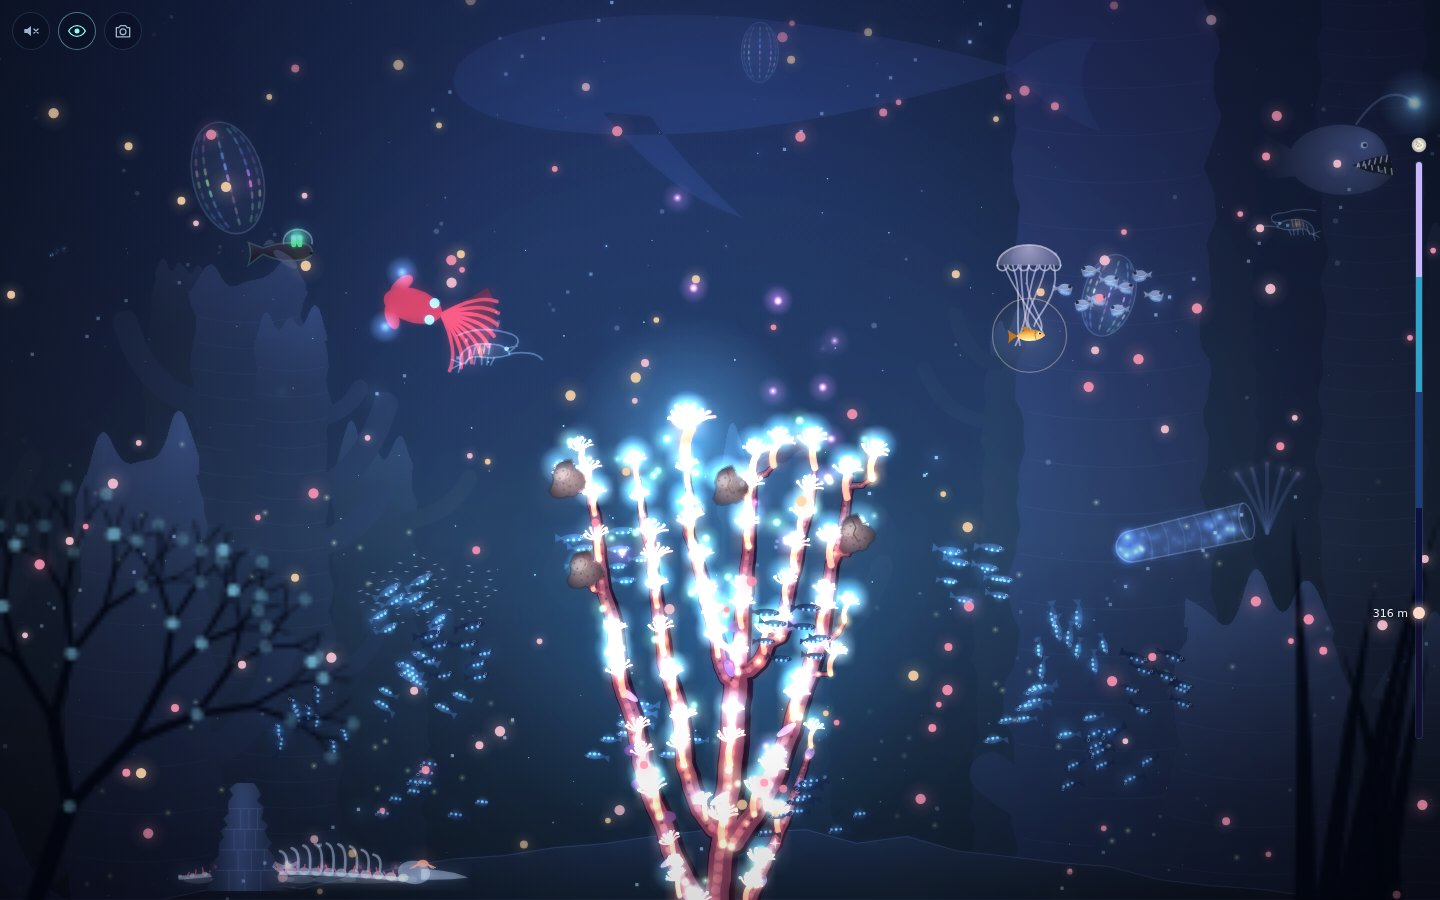
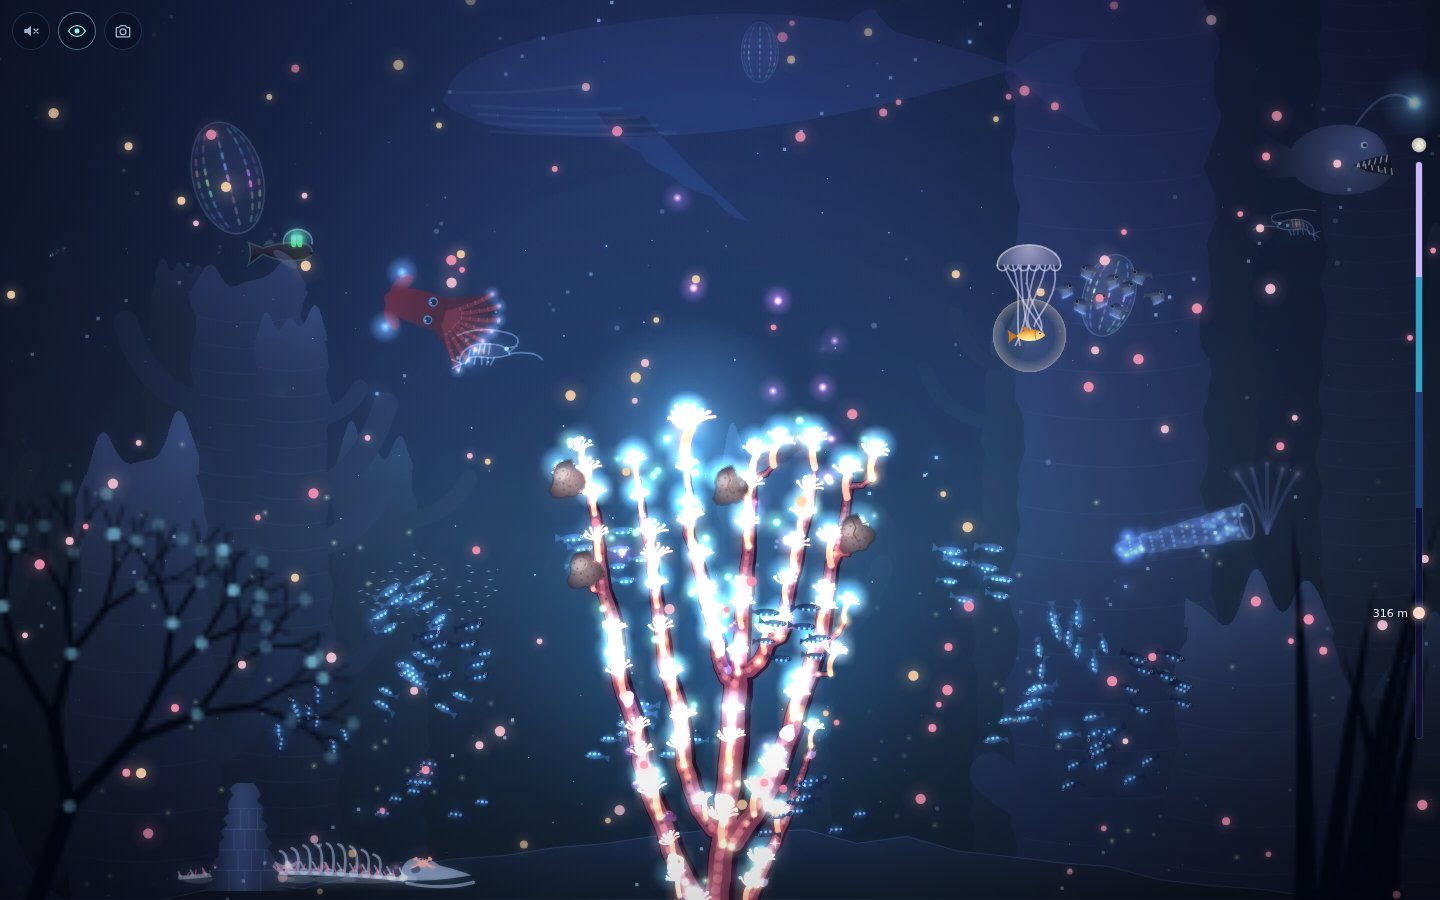
Far ruins on a mound of seabed, redrawn; the far whale a humpback

diff --git a/src/game/render/shoals.ts b/src/game/render/shoals.ts
@@ -207,6 +207,18 @@ export function createShoals(seed: number) {
     ctx.fillStyle = '#5a6e9c';
     ctx.lineWidth = 2 * s;
     const k = 1.4 * s;
+    // Far seabed under it, so it stands somewhere instead of hanging in the water.
+    if (['gate', 'terraces', 'lamp-hall', 'wells', 'midden', 'harbour', 'sun-gate', 'carcass'].includes(site)) {
+      ctx.save();
+      ctx.globalAlpha = 0.35 * a * 0.6;
+      ctx.fillStyle = '#3e4c70';
+      ctx.beginPath();
+      ctx.moveTo(x - 60 * k, y + 18 * k);
+      ctx.bezierCurveTo(x - 40 * k, y + 11 * k, x + 30 * k, y + 10 * k, x + 60 * k, y + 18 * k);
+      ctx.closePath();
+      ctx.fill();
+      ctx.restore();
+    }
     ctx.beginPath();
     if (site === 'gate') {
       // A round gate of fitted blocks standing on two stubs of wall, half sunk in silt.
@@ -223,11 +235,34 @@ export function createShoals(seed: number) {
       ctx.rect(x - 40 * k, y + 24 * k, 80 * k, 4 * k);
       ctx.fill();
     } else if (site === 'terraces') {
-      for (let i = 0; i < 4; i++) ctx.rect(x - 30 * k + i * 12 * k, y + 14 * k - i * 9 * k, 36 * k - i * 6 * k, 6 * k);
+      // Stepped terraces cut into a slope: one stepped silhouette, each tread a little worn.
+      ctx.moveTo(x - 40 * k, y + 18 * k);
+      let px = x - 34 * k, py = y + 18 * k;
+      for (let i = 0; i < 4; i++) {
+        ctx.lineTo(px, py - 8 * k);
+        ctx.quadraticCurveTo(px + 6 * k, py - 9 * k, px + 12 * k - i * k, py - 8 * k);
+        px += 12 * k - i * k;
+        py -= 8 * k;
+      }
+      ctx.lineTo(px + 8 * k, py + 2 * k);
+      ctx.lineTo(x + 40 * k, y + 18 * k);
+      ctx.closePath();
       ctx.fill();
     } else if (site === 'lamp-hall') {
-      for (let i = 0; i < 4; i++) ctx.rect(x - 24 * k + i * 15 * k, y - 18 * k, 4 * k, 36 * k);
-      ctx.rect(x - 28 * k, y - 22 * k, 56 * k, 4 * k);
+      // The hall's broken colonnade: columns of uneven height with flared capitals, a stretch of
+      // roof still lying across the first two, the last column a stump.
+      const tops = [-18, -18, -8, 4];
+      for (let i = 0; i < 4; i++) {
+        const cx = x - 24 * k + i * 15 * k, top = y + tops[i]! * k;
+        ctx.rect(cx, top, 4 * k, y + 18 * k - top);
+        if (i < 3) ctx.rect(cx - 1.5 * k, top - 1.5 * k, 7 * k, 2 * k);
+      }
+      ctx.moveTo(x - 28 * k, y - 22 * k);
+      ctx.lineTo(x - 2 * k, y - 22 * k);
+      ctx.lineTo(x + 1 * k, y - 20.5 * k);
+      ctx.lineTo(x - 3 * k, y - 18.5 * k);
+      ctx.lineTo(x - 28 * k, y - 18.5 * k);
+      ctx.closePath();
       ctx.fill();
     } else if (site === 'wells') {
       // Three well-heads of stacked stone at different heights, each a squat drum with a dark
@@ -248,21 +283,68 @@ export function createShoals(seed: number) {
       }
       ctx.fill();
     } else if (site === 'midden') {
-      ctx.moveTo(x - 34 * k, y + 14 * k);
-      ctx.quadraticCurveTo(x, y - 20 * k, x + 34 * k, y + 14 * k);
+      // A heap of shell and bone: a lumpy mound, broken shells and a curved rib sticking out of it.
+      ctx.moveTo(x - 36 * k, y + 16 * k);
+      for (let i = 1; i < 12; i++) {
+        const u = i / 12, hx = x - 36 * k + u * 72 * k;
+        ctx.lineTo(hx, y + 16 * k - Math.sin(u * Math.PI) * (26 + 4 * Math.sin(i * 2.7)) * k);
+      }
+      ctx.lineTo(x + 36 * k, y + 16 * k);
       ctx.closePath();
       ctx.fillStyle = '#b8b2a2';
       ctx.fill();
+      ctx.strokeStyle = '#d6d0c0';
+      ctx.lineWidth = 2.4 * k;
+      ctx.lineCap = 'round';
+      ctx.beginPath();
+      ctx.moveTo(x + 6 * k, y - 8 * k);
+      ctx.quadraticCurveTo(x + 14 * k, y - 22 * k, x + 24 * k, y - 20 * k);
+      ctx.moveTo(x - 14 * k, y - 4 * k);
+      ctx.lineTo(x - 20 * k, y - 15 * k);
+      ctx.stroke();
+      ctx.fillStyle = '#d6d0c0';
+      ctx.beginPath();
+      for (const [sx, sy, sr] of [[-22, 6, 4], [-4, -6, 3.5], [16, 4, 4.5], [4, 10, 3]] as const) {
+        ctx.moveTo(x + sx * k, y + sy * k);
+        ctx.arc(x + sx * k, y + sy * k, sr * k, Math.PI, 0);
+        ctx.closePath();
+      }
+      ctx.fill();
     } else if (site === 'harbour') {
-      // The harbour: a ring of worn posts.
-      for (let i = 0; i < 7; i++) ctx.rect(x - 36 * k + i * 12 * k, y - (10 + (i % 3) * 4) * k, 4 * k, (24 + (i % 3) * 4) * k);
+      // The harbour: a curve of worn mooring posts, leaning every way, their tops rotted to points
+      // or snapped short, the nearer ones bigger.
+      for (let i = 0; i < 7; i++) {
+        const u = i / 6, near = 0.75 + 0.35 * Math.sin(u * Math.PI);
+        const px = x - 36 * k + i * 12 * k, base = y + (14 + 4 * Math.sin(u * Math.PI)) * k;
+        const hgt = (18 + ((i * 7) % 5) * 3) * k * near, w = 2.4 * k * near, lean = Math.sin(i * 2.3) * 4 * k;
+        const snapped = i % 3 === 1;
+        ctx.moveTo(px - w, base);
+        ctx.lineTo(px - w * 0.8 + lean, base - hgt);
+        if (snapped) ctx.lineTo(px + lean, base - hgt + 2 * k);
+        else ctx.lineTo(px + lean + w * 0.2, base - hgt - 3 * k);
+        ctx.lineTo(px + w * 0.8 + lean, base - hgt + (snapped ? -1 : 0) * k);
+        ctx.lineTo(px + w, base);
+        ctx.closePath();
+      }
       ctx.fillStyle = '#cfc6b4';
       ctx.fill();
     } else if (site === 'sun-gate') {
-      // A doorway: two posts and a lintel.
-      ctx.rect(x - 22 * k, y - 18 * k, 5 * k, 32 * k);
-      ctx.rect(x + 17 * k, y - 18 * k, 5 * k, 32 * k);
-      ctx.rect(x - 26 * k, y - 22 * k, 52 * k, 6 * k);
+      // A doorway left standing: two weathered posts, one shorter, and the lintel across them
+      // tilted where it has slipped, its far end broken off.
+      ctx.moveTo(x - 22 * k, y + 14 * k);
+      ctx.lineTo(x - 21.5 * k, y - 18 * k);
+      ctx.lineTo(x - 16.5 * k, y - 18.5 * k);
+      ctx.lineTo(x - 17 * k, y + 14 * k);
+      ctx.moveTo(x + 17 * k, y + 14 * k);
+      ctx.lineTo(x + 17.4 * k, y - 14.5 * k);
+      ctx.lineTo(x + 22 * k, y - 15 * k);
+      ctx.lineTo(x + 22.5 * k, y + 14 * k);
+      ctx.moveTo(x - 26 * k, y - 23 * k);
+      ctx.lineTo(x + 18 * k, y - 19.5 * k);
+      ctx.lineTo(x + 20 * k, y - 16.5 * k);
+      ctx.lineTo(x + 16 * k, y - 14 * k);
+      ctx.lineTo(x - 26 * k, y - 17 * k);
+      ctx.closePath();
       ctx.fillStyle = '#d8d0c0';
       ctx.fill();
     } else if (site === 'carcass') {

diff --git a/src/game/render/draw.ts b/src/game/render/draw.ts
@@ -216,27 +216,53 @@ export function drawSmallFish(ctx: CanvasRenderingContext2D, s: number, back: st
 }
 
 /**
- * A great whale's silhouette at the origin, head toward +x, about 218·s long: a blunt head, the long
- * taper to the tail stock, curved flukes and a long pectoral fin. Filled in the current style;
+ * A great whale's silhouette at the origin, head toward +x, about 220·s long: a humpback's long flat
+ * head, a small dorsal hump far back, the long taper to the tail stock, scalloped flukes and the long
+ * knobbed pectoral fin; the jaw line and throat grooves faintly paler. Filled in the current style;
  * `beat` (−1…1) sweeps the flukes.
  */
 export function whaleSilhouette(ctx: CanvasRenderingContext2D, s: number, beat: number): void {
   ctx.beginPath();
-  ctx.moveTo(90 * s, 0);
-  ctx.bezierCurveTo(90 * s, -18 * s, 40 * s, -24 * s, -10 * s, -18 * s);
-  ctx.bezierCurveTo(-50 * s, -12 * s, -80 * s, -4 * s, -100 * s, beat * 3 * s);
+  // A long flat head with the lower jaw jutting a little, the back rising to a small dorsal hump far
+  // behind, then the long taper to the tail stock.
+  ctx.moveTo(92 * s, 2 * s);
+  ctx.bezierCurveTo(88 * s, -10 * s, 60 * s, -16 * s, 20 * s, -19 * s);
+  ctx.bezierCurveTo(-10 * s, -21 * s, -30 * s, -18 * s, -44 * s, -15 * s);
+  ctx.quadraticCurveTo(-49 * s, -20 * s, -53 * s, -19 * s);
+  ctx.quadraticCurveTo(-56 * s, -14 * s, -60 * s, -11 * s);
+  ctx.bezierCurveTo(-76 * s, -6 * s, -90 * s, -2 * s, -100 * s, beat * 3 * s);
   ctx.bezierCurveTo(-80 * s, 8 * s, -40 * s, 18 * s, 0, 20 * s);
-  ctx.bezierCurveTo(50 * s, 22 * s, 90 * s, 14 * s, 90 * s, 0);
-  // Flukes.
+  ctx.bezierCurveTo(50 * s, 23 * s, 86 * s, 16 * s, 94 * s, 6 * s);
+  ctx.closePath();
+  // Flukes, their trailing edge scalloped.
   ctx.moveTo(-98 * s, beat * 3 * s);
   ctx.quadraticCurveTo(-112 * s, (-14 + beat * 6) * s, -128 * s, (-16 + beat * 10) * s);
-  ctx.quadraticCurveTo(-116 * s, (beat * 6) * s, -128 * s, (16 + beat * 10) * s);
+  ctx.quadraticCurveTo(-120 * s, (-8 + beat * 8) * s, -122 * s, (-4 + beat * 7) * s);
+  ctx.quadraticCurveTo(-116 * s, (beat * 6) * s, -122 * s, (4 + beat * 7) * s);
+  ctx.quadraticCurveTo(-120 * s, (8 + beat * 8) * s, -128 * s, (16 + beat * 10) * s);
   ctx.quadraticCurveTo(-112 * s, (14 + beat * 6) * s, -98 * s, beat * 3 * s);
-  // Long pectoral fin.
-  ctx.moveTo(40 * s, 12 * s);
-  ctx.quadraticCurveTo(20 * s, 40 * s, -6 * s, (46 + beat * 4) * s);
-  ctx.quadraticCurveTo(14 * s, 30 * s, 24 * s, 14 * s);
+  // The long pectoral fin, knobbed along its leading edge.
+  ctx.moveTo(42 * s, 12 * s);
+  ctx.quadraticCurveTo(34 * s, 24 * s, 28 * s, 26 * s);
+  ctx.quadraticCurveTo(26 * s, 31 * s, 18 * s, 34 * s);
+  ctx.quadraticCurveTo(14 * s, 39 * s, 4 * s, 42 * s);
+  ctx.quadraticCurveTo(-1 * s, (46 + beat * 4) * s, -8 * s, (47 + beat * 4) * s);
+  ctx.quadraticCurveTo(12 * s, 32 * s, 26 * s, 14 * s);
   ctx.fill();
+  // The line of the jaw and the grooves along the throat, faintly paler than the body (drawn over
+  // it in the caller's alpha, so they read as light catching the folds).
+  const prevStroke = ctx.strokeStyle;
+  ctx.strokeStyle = 'rgba(150,180,210,0.14)';
+  ctx.lineWidth = Math.max(1, 1.2 * s);
+  ctx.beginPath();
+  ctx.moveTo(92 * s, 3 * s);
+  ctx.quadraticCurveTo(70 * s, 5 * s, 48 * s, 3 * s);
+  for (let k = 0; k < 4; k++) {
+    ctx.moveTo((84 - k * 2) * s, (8 + k * 3) * s);
+    ctx.quadraticCurveTo((60 - k * 4) * s, (11 + k * 3) * s, (34 - k * 6) * s, (11 + k * 3) * s);
+  }
+  ctx.stroke();
+  ctx.strokeStyle = prevStroke;
 }
 
 /**

diff --git a/docs/PROGRESS.md b/docs/PROGRESS.md
@@ -1249,3 +1249,7 @@ date, what landed, what is half-done, what's next.
 - The beacon beside the crown at the Breach was a smooth dark wedge: a tapering stack of rough stone courses, each a little out of line with the next, joints staggered, lit down one side by the sky, and at the last stage a flared cup of stone at the top holding the light.
 - The listening dome in the Midnight Water read as a wireframe birdcage (an outline arch and strong ribs): built whole, its shell is thin pale stone the light shows through, brighter toward the top, and the ribs across it are fine and faint.
 - The chimaera crossing the Silt Floor glared white by the reef's light: its pale lilac is a step darker (body and fins), so the bloom leaves its lateral line and fins readable.
+- The far whale (Sunlit by day, and dimly over the Midnight Water) was a smooth oval with a fin: a humpback's silhouette, a long flat head, a small soft dorsal hump far back, the long flipper knobbed along its leading edge, scalloped flukes, and the jaw line and throat grooves faintly paler (strokes, not cut-outs: callers draw it translucent straight onto the scene).
+- Console-error sweep on mobile after the evening's redraws (18 points): clean. README pictures retaken (tools/readme.ts) to show them.
+- The far ruins the shoals search (seen faintly while they hang there) floated in open water, the sun-gate reading as a table: each stands on a faint mound of far seabed, and the sun-gate is a doorway left standing, weathered posts of uneven height and the lintel slipped askew, its far end broken off.
+- The other far ruins were bare primitives: the harbour (a bar chart of even rectangles) is a curve of mooring posts leaning every way, rotted to points or snapped short, nearer ones bigger; the terraces (four floating slabs) are one stepped silhouette cut into a slope; the midden (a smooth dome) is a lumpy heap with broken shells and a rib sticking out; the lamp hall (four legs under a slab) is a broken colonnade, columns of uneven height with capitals, a stretch of roof over the first two and the last a stump. Checked by forcing a trip to each site (a temporary patch, not kept).
